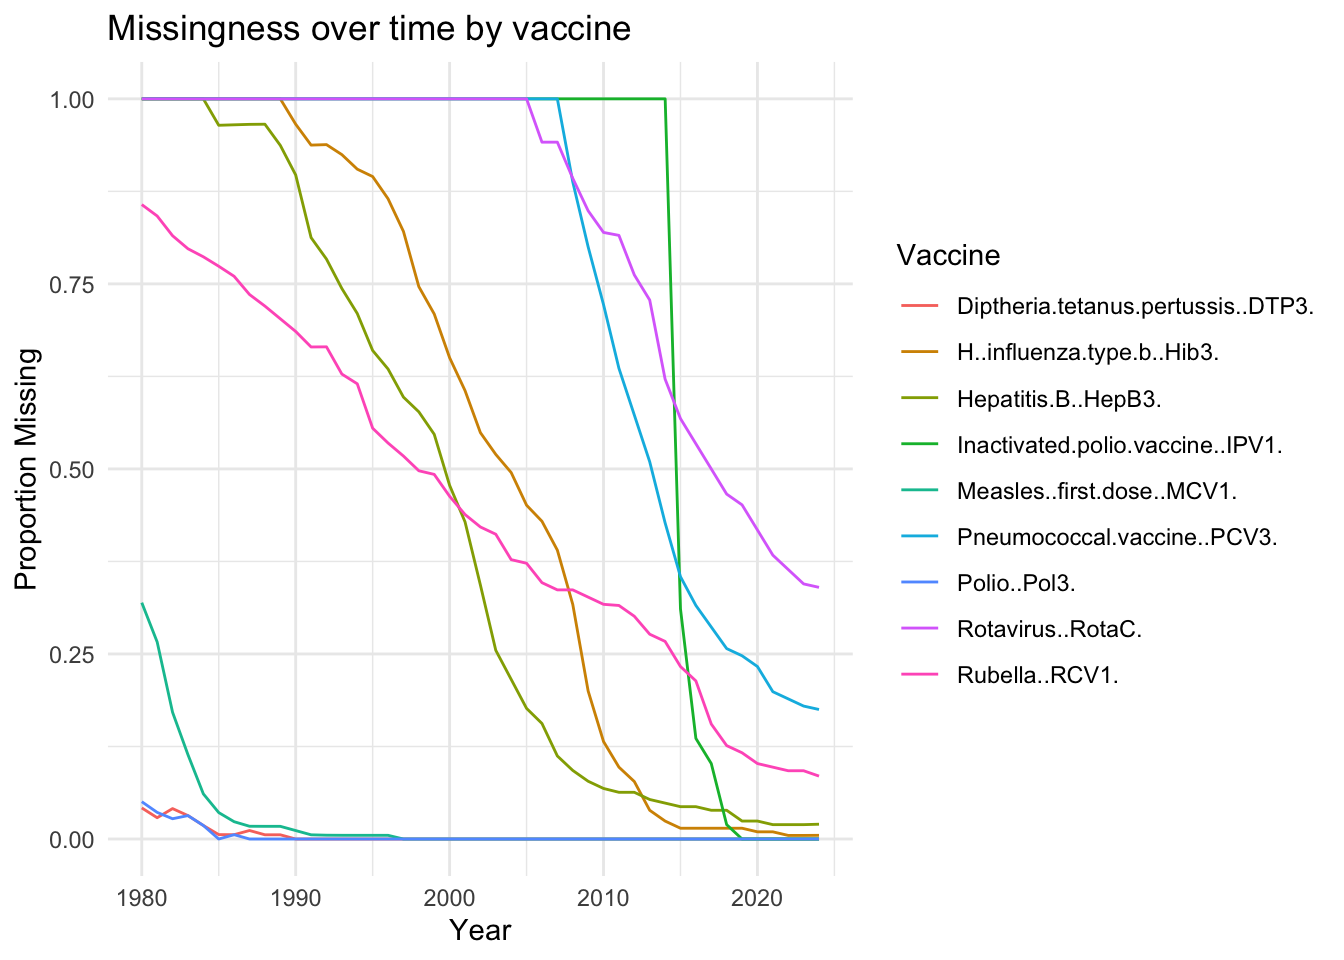
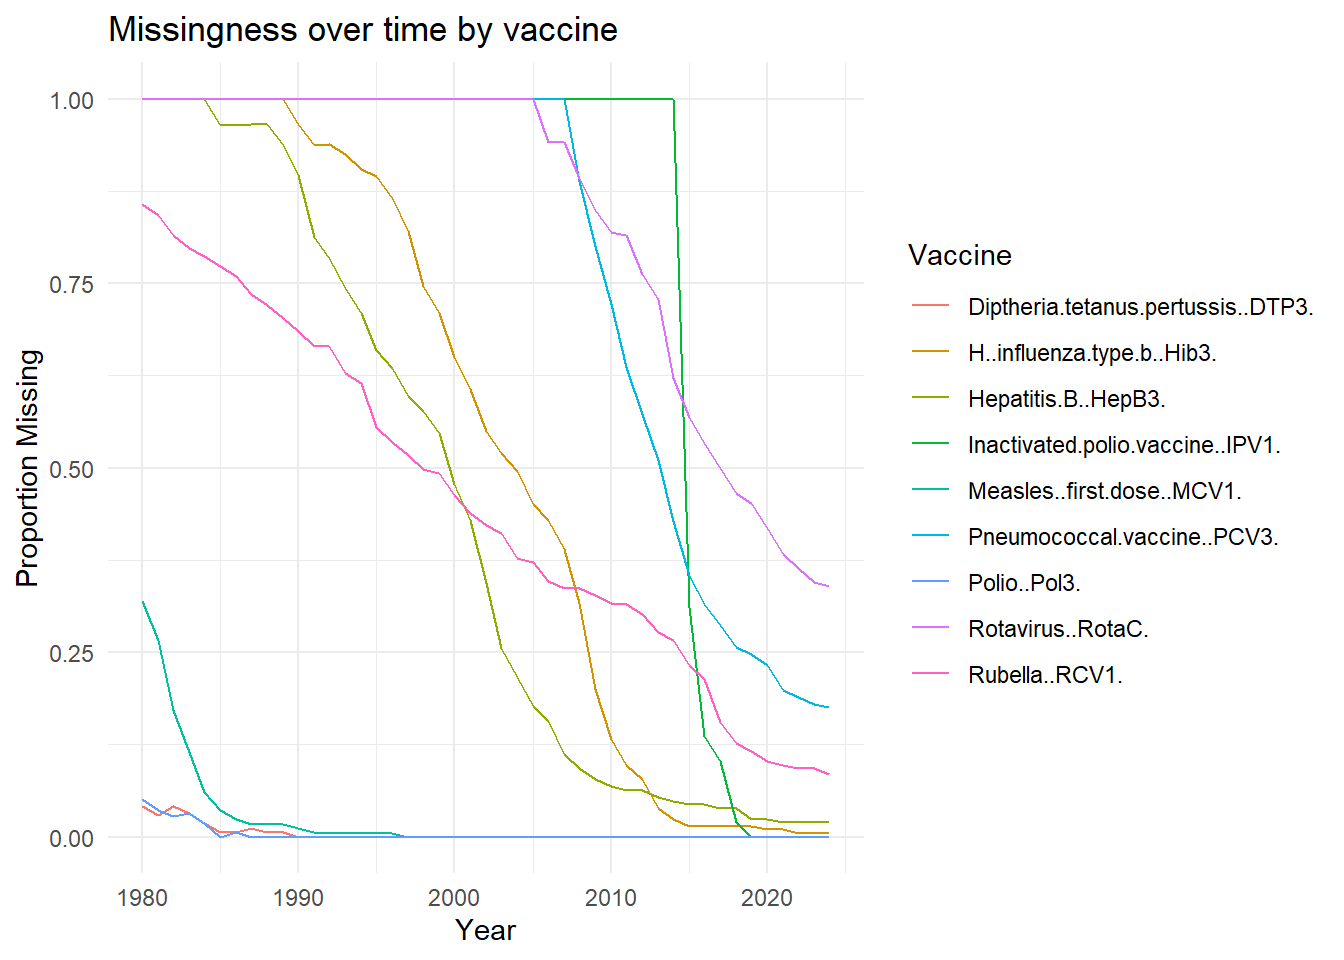
adding html

diff --git a/initial_exploration.html b/initial_exploration.html
@@ -2,7 +2,7 @@
 <html xmlns="http://www.w3.org/1999/xhtml" lang="en" xml:lang="en"><head>
 
 <meta charset="utf-8">
-<meta name="generator" content="quarto-1.8.25">
+<meta name="generator" content="quarto-1.8.26">
 
 <meta name="viewport" content="width=device-width, initial-scale=1.0, user-scalable=yes">
 
@@ -32,10 +32,10 @@ ul.task-list li input[type="checkbox"] {
 <script src="initial_exploration_files/libs/quarto-html/tippy.umd.min.js"></script>
 <script src="initial_exploration_files/libs/quarto-html/anchor.min.js"></script>
 <link href="initial_exploration_files/libs/quarto-html/tippy.css" rel="stylesheet">
-<link href="initial_exploration_files/libs/quarto-html/quarto-syntax-highlighting-7b89279ff1a6dce999919e0e67d4d9ec.css" rel="stylesheet" id="quarto-text-highlighting-styles">
+<link href="initial_exploration_files/libs/quarto-html/quarto-syntax-highlighting-587c61ba64f3a5504c4d52d930310e48.css" rel="stylesheet" id="quarto-text-highlighting-styles">
 <script src="initial_exploration_files/libs/bootstrap/bootstrap.min.js"></script>
 <link href="initial_exploration_files/libs/bootstrap/bootstrap-icons.css" rel="stylesheet">
-<link href="initial_exploration_files/libs/bootstrap/bootstrap-d6a003b94517c951b2d65075d42fb01b.min.css" rel="stylesheet" append-hash="true" id="quarto-bootstrap" data-mode="light">
+<link href="initial_exploration_files/libs/bootstrap/bootstrap-9e3ffae467580fdb927a41352e75a2e0.min.css" rel="stylesheet" append-hash="true" id="quarto-bootstrap" data-mode="light">
 
 
 </head>
